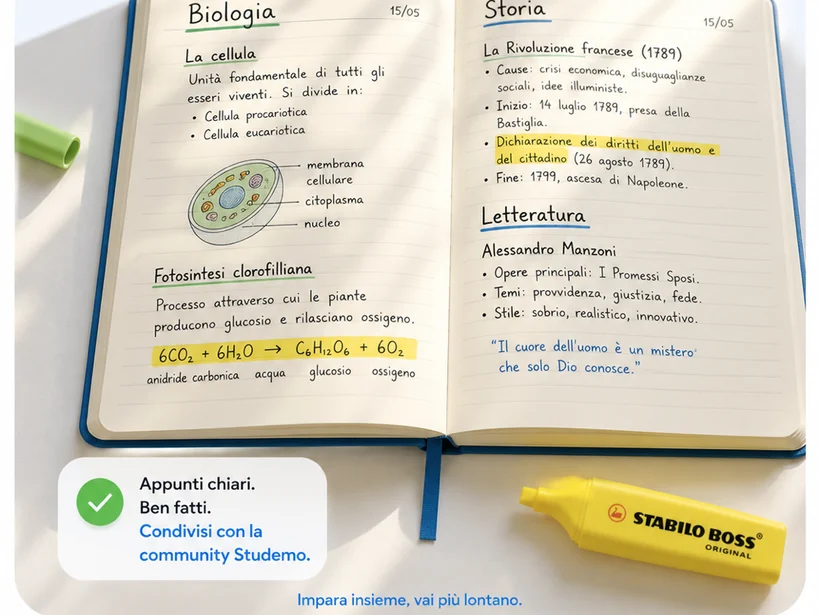
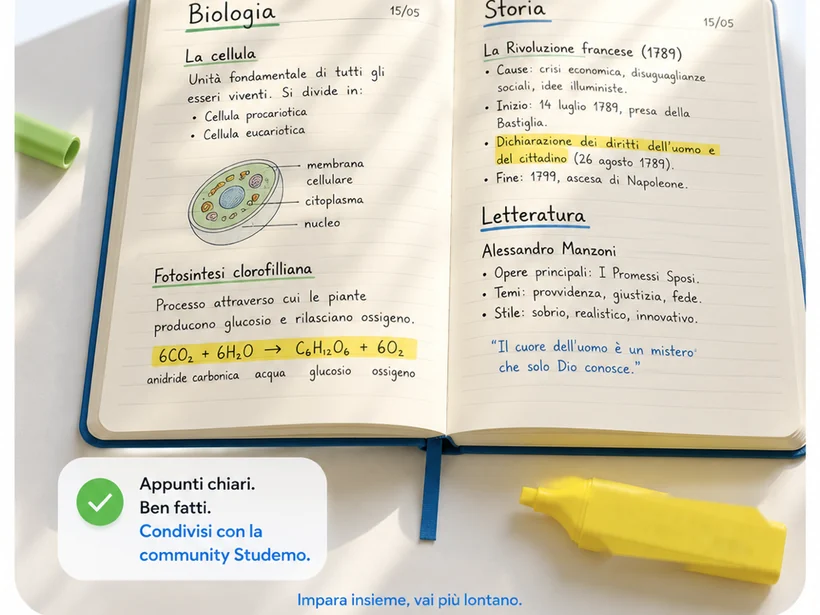
Bollino «IA» sulle immagini generate e nota nel piede; tolti i marchi di terzi (Zanichelli, Stabilo)

Changed region(s): [[0.7317, 0.8033, 0.9451, 0.9268]]

diff --git a/index.html b/index.html
@@ -441,6 +441,17 @@
     .etichetta.uno{left:-10px} .etichetta.due{right:-6px}
     .intestazione{margin-bottom:34px}
   }
+
+  /* Bollino «IA» sulle immagini generate con l'intelligenza artificiale (21/09/2026).
+     AI Act art. 50 e Linee guida della Commissione del 20/07/2026: le immagini
+     realistiche con persone simulate vanno dichiarate in modo chiaro e al primo
+     sguardo; sulle altre è buona pratica. Qui tutte uguali. Vedi docs/ia-e-legge.md */
+  .ia{position:relative}
+  .ia::after{content:"IA"; position:absolute; top:10px; right:10px; z-index:3; pointer-events:none;
+    font:800 11px/1 system-ui,-apple-system,sans-serif; letter-spacing:.08em; padding:5px 7px;
+    border-radius:7px; background:rgba(255,255,255,.94); color:#0b1b33; box-shadow:0 1px 4px rgba(0,0,0,.18)}
+  .racconto .atto.ia::after{top:10px; right:max(10px, calc(50% - 150px))}
+  .nota-ia{margin-top:14px; font-size:.82rem; opacity:.75}
 </style>
 </head>
 <body>
@@ -493,8 +504,8 @@
 
     <div class="scena">
       <div class="dentro-scena sale">
-      <div class="cornice">
-        <img src="img/eroe-telefono.webp" alt="Uno studente inquadra la copertina di un libro di matematica e l'app compila da sola titolo, sottotitolo ed edizione" width="720" height="900" fetchpriority="high">
+      <div class="cornice ia">
+        <img src="img/eroe-telefono.webp" alt="Uno studente inquadra la copertina di un libro di matematica e l'app compila da sola titolo, sottotitolo ed edizione (immagine creata con l'intelligenza artificiale)" width="720" height="900" fetchpriority="high">
       </div>
       <div class="etichetta uno"><span class="tondo">✓</span> Si compila da sola</div>
       <div class="etichetta due"><span class="tondo">€</span> <span class="prezzo">12 €</span> il tuo prezzo</div>
@@ -556,12 +567,12 @@
     </div>
 
     <div class="coppia">
-      <figure class="prova appare">
-        <img src="img/codice-a-barre.webp" alt="Un telefono inquadra il codice a barre sul retro di un libro e mostra già titolo, autori ed editore" width="760" height="1153" loading="lazy">
+      <figure class="prova appare ia">
+        <img src="img/codice-a-barre.webp" alt="Un telefono inquadra il codice a barre sul retro di un libro e mostra già titolo, autori ed editore (immagine creata con l'intelligenza artificiale)" width="760" height="1153" loading="lazy">
         <figcaption><b>Inquadri il codice, è già fatto.</b> Titolo, autori ed editore si compilano da soli: a te resta il prezzo.</figcaption>
       </figure>
-      <figure class="prova appare">
-        <img src="img/lo-regalo.webp" alt="Un libro di chimica con un nastro verde e un cartellino scritto a mano: lo regalo" width="760" height="1146" loading="lazy">
+      <figure class="prova appare ia">
+        <img src="img/lo-regalo.webp" alt="Un libro di chimica con un nastro verde e un cartellino scritto a mano: lo regalo (immagine creata con l'intelligenza artificiale)" width="760" height="1146" loading="lazy">
         <figcaption><b>E c'è chi lo regala.</b> Tanti passano il libro per il gusto di farlo girare. Tu trovi quello che ti serve.</figcaption>
       </figure>
     </div>
@@ -584,8 +595,8 @@
       <svg class="freccia b" viewBox="0 0 24 24" fill="none" stroke="currentColor" stroke-width="2.4" stroke-linecap="round" stroke-linejoin="round" aria-hidden="true"><path d="M4 12h15"/><path d="m13 6 6 6-6 6"/></svg>
 
       <article class="passo appare">
-        <div class="foto">
-          <img src="img/passo-1-copertina.webp" alt="Una mano fotografa la copertina di un libro di matematica e i campi si riempiono da soli" width="900" height="675" loading="lazy">
+        <div class="foto ia">
+          <img src="img/passo-1-copertina.webp" alt="Una mano fotografa la copertina di un libro di matematica e i campi si riempiono da soli (immagine creata con l'intelligenza artificiale)" width="900" height="675" loading="lazy">
           <div class="numero">1</div>
         </div>
         <div class="testo">
@@ -595,8 +606,8 @@
       </article>
 
       <article class="passo appare">
-        <div class="foto">
-          <img src="img/passo-2-prezzo.webp" alt="Un libro di letteratura con un cartellino scritto a mano da 12 euro" width="900" height="675" loading="lazy">
+        <div class="foto ia">
+          <img src="img/passo-2-prezzo.webp" alt="Un libro di letteratura con un cartellino scritto a mano da 12 euro (immagine creata con l'intelligenza artificiale)" width="900" height="675" loading="lazy">
           <div class="numero">2</div>
         </div>
         <div class="testo">
@@ -606,8 +617,8 @@
       </article>
 
       <article class="passo appare">
-        <div class="foto">
-          <img src="img/passo-3-scrivono.webp" alt="Due messaggi in chat: «È ancora disponibile?» e «Sì, ci vediamo domani»" width="900" height="675" loading="lazy">
+        <div class="foto ia">
+          <img src="img/passo-3-scrivono.webp" alt="Due messaggi in chat: «È ancora disponibile?» e «Sì, ci vediamo domani» (immagine creata con l'intelligenza artificiale)" width="900" height="675" loading="lazy">
           <div class="numero">3</div>
         </div>
         <div class="testo">
@@ -661,14 +672,14 @@
     </div>
 
     <div class="atti">
-      <div class="atto appare">
-        <img src="img/libro-aspetta.webp" alt="Un libro con gli occhi tristi, fermo in cantina, che aspetta" width="900" height="900" loading="lazy">
+      <div class="atto appare ia">
+        <img src="img/libro-aspetta.webp" alt="Un libro con gli occhi tristi, fermo in cantina, che aspetta (immagine creata con l'intelligenza artificiale)" width="900" height="900" loading="lazy">
         <h3>«Sono qui!»</h3>
         <p>Chiuso da giugno, e ancora buono. Basta un minuto per rimetterlo in giro.</p>
       </div>
 
-      <div class="atto appare" style="--ritardo:120ms">
-        <img src="img/libro-felice.webp" alt="Lo stesso libro, felice, con le braccia alzate: qualcuno l'ha ripreso" width="900" height="900" loading="lazy">
+      <div class="atto appare ia" style="--ritardo:120ms">
+        <img src="img/libro-felice.webp" alt="Lo stesso libro, felice, con le braccia alzate: qualcuno l'ha ripreso (immagine creata con l'intelligenza artificiale)" width="900" height="900" loading="lazy">
         <h3>«Grazie!»</h3>
         <p>Adesso è nello zaino di qualcun altro, e ricomincia un anno intero.</p>
       </div>
@@ -745,7 +756,7 @@
 
     <div class="vetrina">
       <article class="tessera appare">
-        <div class="foto"><img src="img/vicino-a-te.webp" alt="Una mappa con la scuola al centro e attorno i libri e gli appunti disponibili" width="820" height="615" loading="lazy"></div>
+        <div class="foto ia"><img src="img/vicino-a-te.webp" alt="Una mappa con la scuola al centro e attorno i libri e gli appunti disponibili (immagine creata con l'intelligenza artificiale)" width="820" height="615" loading="lazy"></div>
         <div class="testo">
           <h3>Vicino a te</h3>
           <p>Prima gli annunci della tua zona e della tua scuola: ci si trova in cinque minuti, si guarda il libro e si chiude lì.</p>
@@ -753,7 +764,7 @@
       </article>
 
       <article class="tessera appare">
-        <div class="foto"><img src="img/lo-scambio.webp" alt="Due studenti si passano un libro davanti al cancello del liceo" width="820" height="615" loading="lazy"></div>
+        <div class="foto ia"><img src="img/lo-scambio.webp" alt="Due studenti si passano un libro davanti al cancello del liceo (immagine creata con l'intelligenza artificiale)" width="820" height="615" loading="lazy"></div>
         <div class="testo">
           <h3>Lo scambio, di persona</h3>
           <p>Scambia, risparmia, studia meglio: il libro passa di mano davanti a scuola, e il prezzo lo decidete voi.</p>
@@ -761,7 +772,7 @@
       </article>
 
       <article class="tessera appare">
-        <div class="foto"><img src="img/le-stelle.webp" alt="Cinque stelle e un pollice in su" width="820" height="615" loading="lazy"></div>
+        <div class="foto ia"><img src="img/le-stelle.webp" alt="Cinque stelle e un pollice in su (immagine creata con l'intelligenza artificiale)" width="820" height="615" loading="lazy"></div>
         <div class="testo">
           <h3>Persone di cui fidarti</h3>
           <p>Ogni scambio lascia una valutazione a stelle. Chi tratta bene si riconosce subito, e da quella persona ci torni volentieri.</p>
@@ -769,7 +780,7 @@
       </article>
 
       <article class="tessera appare">
-        <div class="foto"><img src="img/gli-appunti.webp" alt="Un quaderno aperto con appunti di biologia e storia scritti a mano" width="820" height="615" loading="lazy"></div>
+        <div class="foto ia"><img src="img/gli-appunti.webp" alt="Un quaderno aperto con appunti di biologia e storia scritti a mano (immagine creata con l'intelligenza artificiale)" width="820" height="615" loading="lazy"></div>
         <div class="testo">
           <h3>Anche gli appunti</h3>
           <p>Le tue pagine chiare e ordinate valgono quanto un libro. Condividile: aiuti qualcuno e ti fai aiutare.</p>
@@ -777,7 +788,7 @@
       </article>
 
       <article class="tessera larga appare">
-        <div class="foto"><img src="img/ogni-percorso.webp" alt="Quattro zaini in fila, dal più piccolo delle elementari al più grande dell'università" width="820" height="615" loading="lazy"></div>
+        <div class="foto ia"><img src="img/ogni-percorso.webp" alt="Quattro zaini in fila, dal più piccolo delle elementari al più grande dell'università (immagine creata con l'intelligenza artificiale)" width="820" height="615" loading="lazy"></div>
         <div class="testo">
           <h3>Dalle elementari alla laurea, sempre con te</h3>
           <p>
@@ -848,8 +859,8 @@
         </div>
         <p class="sotto">In arrivo su App Store e Google Play. Lascia la tua email: sei tra i primi ad averla.</p>
       </div>
-      <div class="foto">
-        <img src="img/settembre.webp" alt="Uno zaino blu col germoglio di Studemo, accanto a una pila di libri di scuola" width="900" height="675" loading="lazy">
+      <div class="foto ia">
+        <img src="img/settembre.webp" alt="Uno zaino blu col germoglio di Studemo, accanto a una pila di libri di scuola (immagine creata con l'intelligenza artificiale)" width="900" height="675" loading="lazy">
       </div>
     </div>
   </div>
@@ -882,6 +893,7 @@
       <div class="prima">
         <a class="marchio" href="#"><img src="icona.png" alt="" width="38" height="38"><b>Studemo</b></a>
         <p>L'app degli studenti: libri e appunti tra studenti, vicino a te. Dalla prima elementare alla laurea.</p>
+        <p class="nota-ia">Le immagini con il bollino «IA» sono create con l'intelligenza artificiale: persone e scene sono di fantasia.</p>
         <a class="social" href="https://www.instagram.com/studemo.it/" target="_blank" rel="noopener">
           <svg viewBox="0 0 24 24" fill="none" stroke="currentColor" stroke-width="1.9" stroke-linecap="round" stroke-linejoin="round"><rect x="3" y="3" width="18" height="18" rx="5.5"/><circle cx="12" cy="12" r="4"/><circle cx="17.4" cy="6.6" r="1.1" fill="currentColor" stroke="none"/></svg>
           @studemo.it
